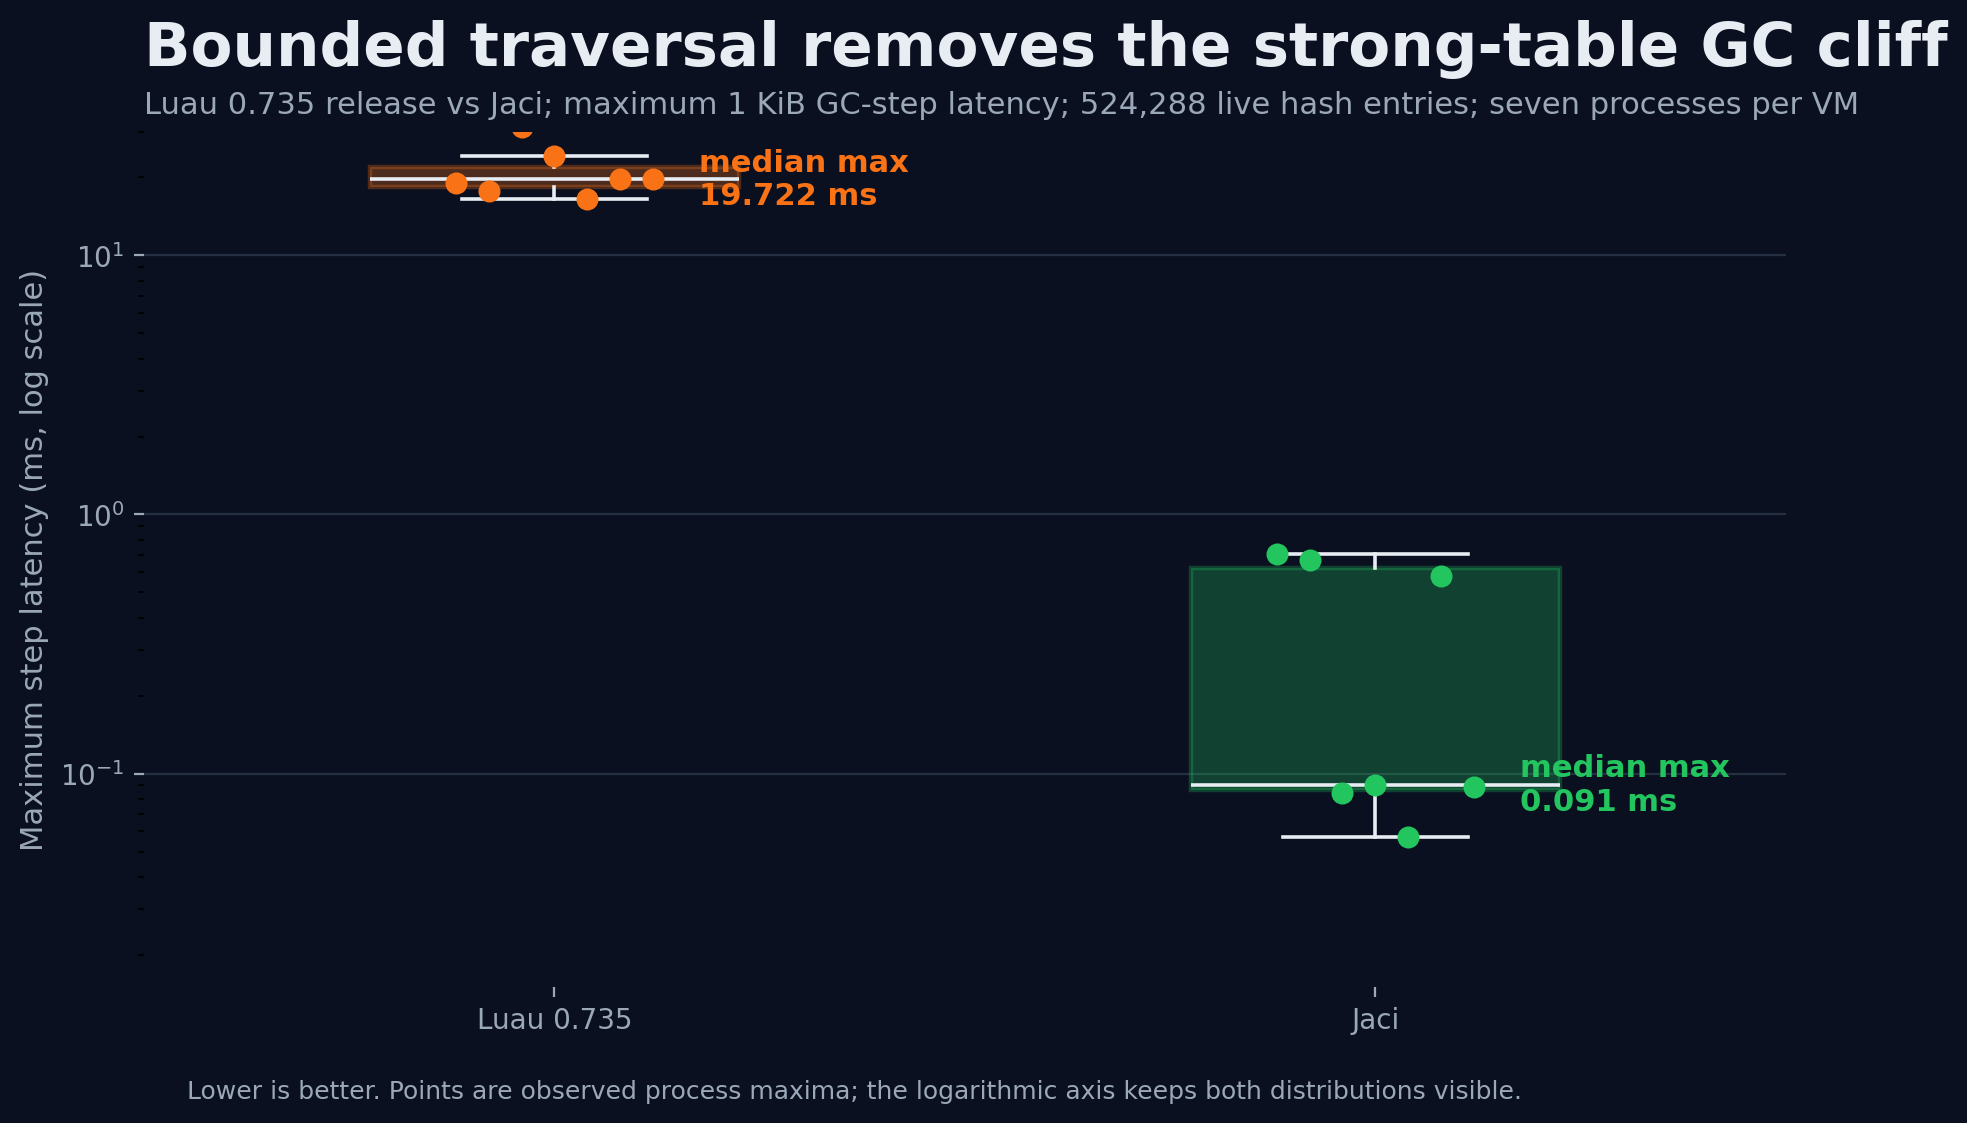
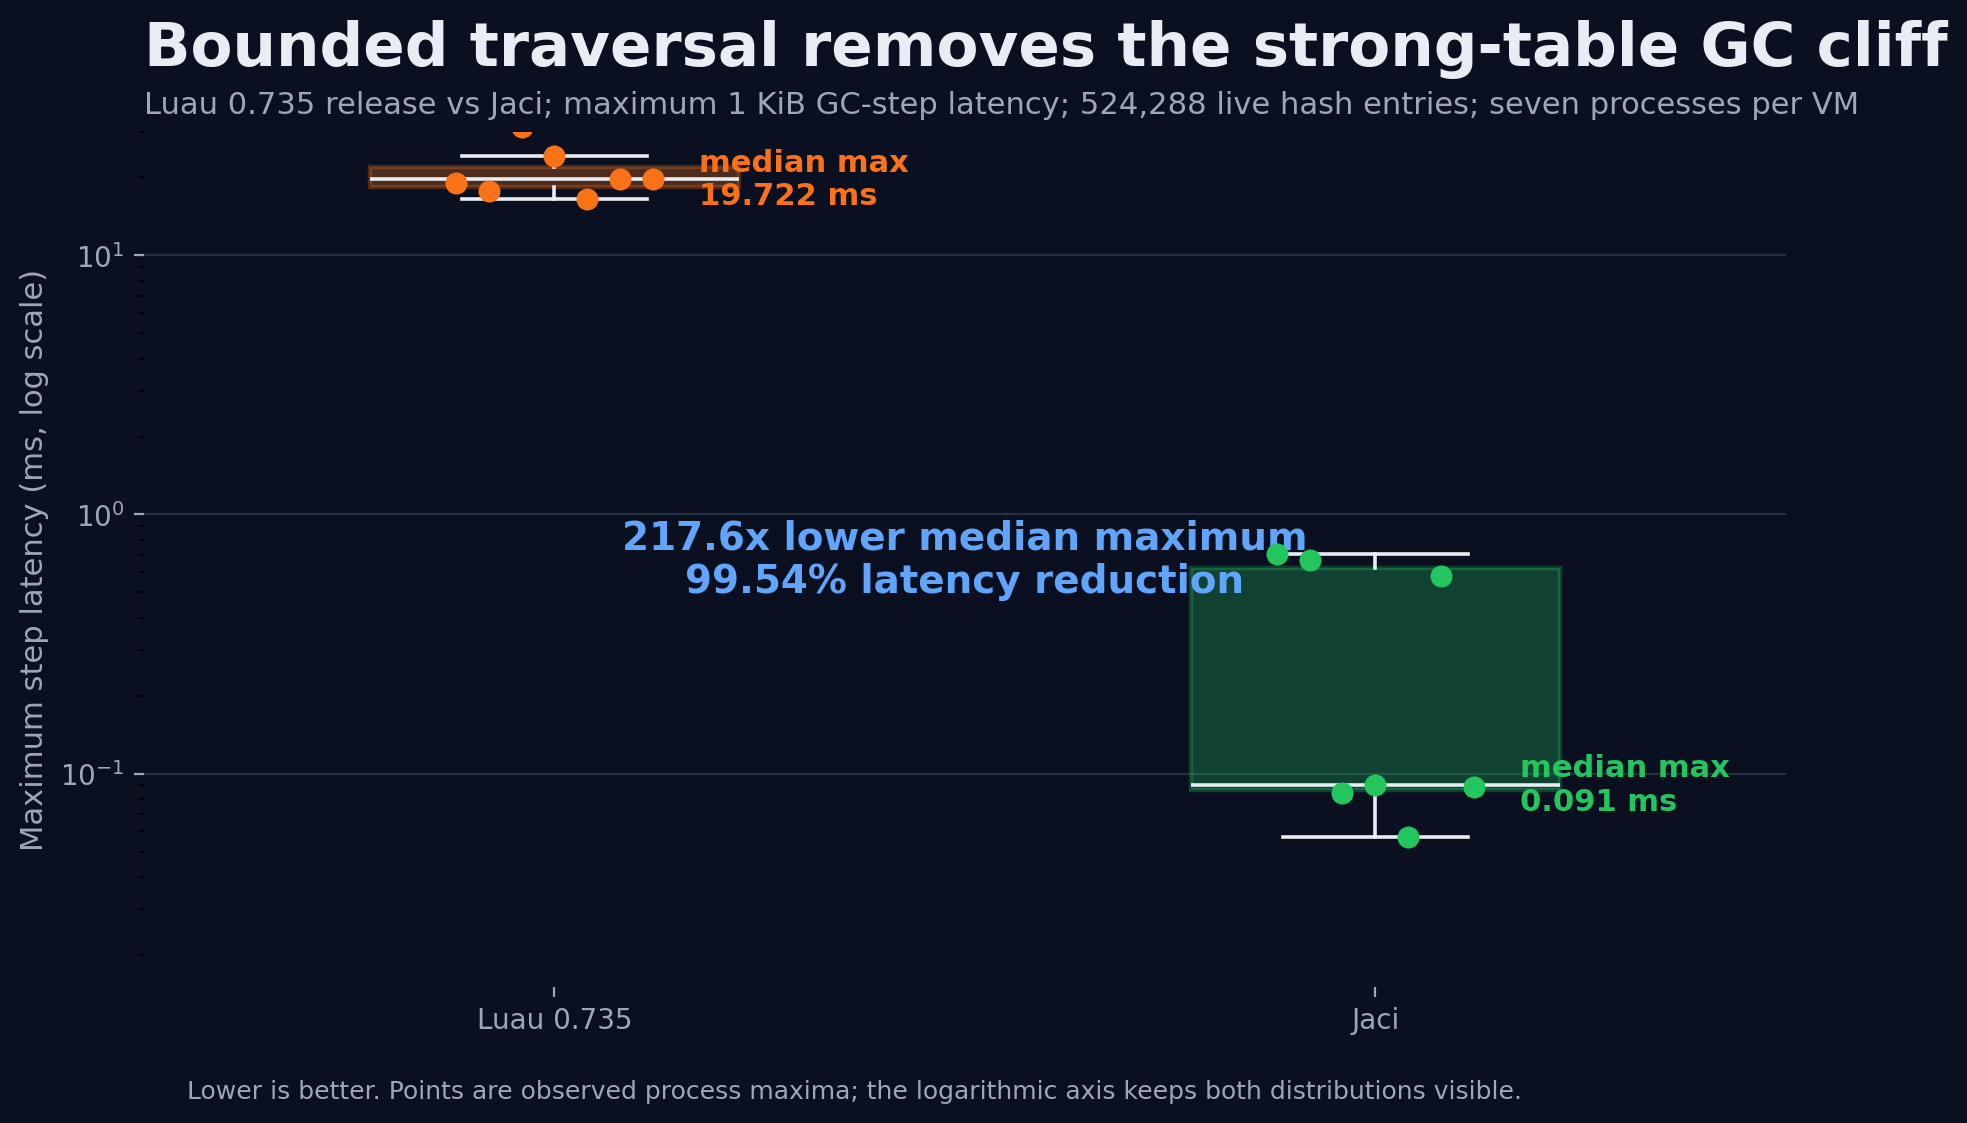
Add broad Luau versus Jaci benchmark results

Changed region(s): [[0.3101, 0.4675, 0.6823, 0.5298]]

diff --git a/src/content/blog/2026-08-22-jaci-near-zero-cost-vm.md b/src/content/blog/2026-08-22-jaci-near-zero-cost-vm.md
@@ -119,6 +119,10 @@ The added continuation check also runs on table writes, so it needed its own reg
 
 ![Measured table and full-collection time for the Luau release and Jaci](../../assets/images/jaci-table-gc-throughput-benchmark.png)
 
+The focused GC results must not be presented as if every program became dramatically faster. A broader Release-mode comparison ran 22 existing workloads with 20 retained timings per VM. Jaci won 12 workloads and lost 10. The largest measured win was **10.9%** in `mesh-normal-scalar`; the largest loss was **9.7%** in `vector-math`. Across the complete set, the geometric-mean change was **0.20% slower**, which is effectively parity at this measurement scale. The optimization is valuable because it removes the strong-table latency cliff while preserving general VM throughput, not because it makes every benchmark faster.
+
+![Measured Jaci speedup or slowdown against Luau 0.735 across 22 VM workloads](../../assets/images/jaci-luau-suite-gains.png)
+
 ### How to read these numbers
 
 - “Maximum” is sensitive to scheduler noise. This is why the final strong-table result is reported as a range across runs and accompanied by p99.
